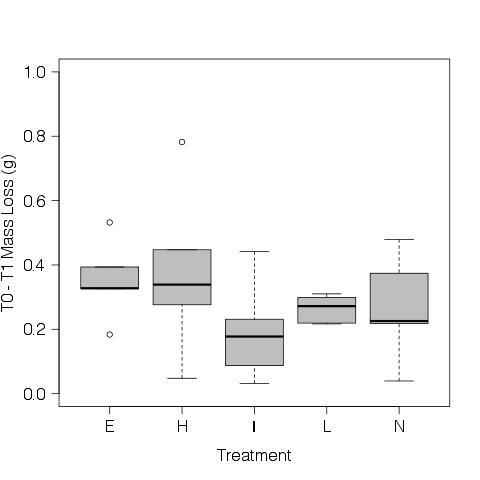
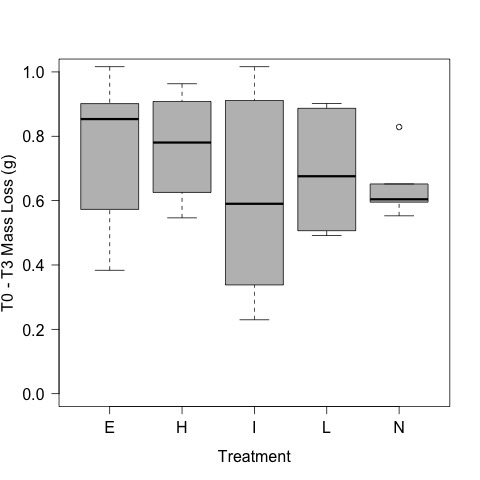
T3 analysis

diff --git a/lab_notebook/analysis/leaf_mass_loss_analysis.md b/lab_notebook/analysis/leaf_mass_loss_analysis.md
@@ -6,6 +6,8 @@
 
 * 22 june 2016 - KF - added T2 to the analysis
 
+* 5 July 2016 - KF - added T3 to the analysis
+
 ## Description
 
 This is the code to calculate the mass loss of the leaf packs in the experiment evaluating the impact of in invasive and native crayfish.
@@ -17,6 +19,7 @@ This is the code to calculate the mass loss of the leaf packs in the experiment 
     leaf.initial <- read.table("./data/initial_leaf_mass.csv", header = T, sep = ",")
     leaf.T1 <- read.table("./data/T1_leaf_mass.csv", header = T, sep = ",")
     leaf.T2 <- read.table("./data/T2_leaf_mass.csv", header = T, sep = ",")
+    leaf.T3 <- read.table("./data/T3_leaf_mass.csv", header = T, sep = ",")
     treat <- read.table("./data/tank_map.csv", header = T, sep = ",")
 
 ### Calculate variables
@@ -40,32 +43,23 @@ This is the code to calculate the mass loss of the leaf packs in the experiment 
     T2AFDM <- T2DM - T2AM
 
 
+#### T3 AFDM
+
+    T3DM <- leaf.T3$CrucLeafDM - leaf.T3$CrucMass
+    T3AM <- leaf.T3$CrucAM - leaf.T3$CrucMass
+    T3AFDM <- T3DM - T3AM
+
 ### Analyze Mass Lost
 
-    leaf.mass <- c(initialAFDM, T1AFDM, T2AFDM)
-    date <- c(as.Date(leaf.initial$Date), as.Date(leaf.T1$Date), as.Date(leaf.T2$Date)) 
-    time.step <- c(rep("T0", 11), rep("T1", 30), rep("T2", 30))
+    leaf.mass <- c(initialAFDM, T1AFDM, T2AFDM, T3AFDM)
+    date <- c(as.Date(leaf.initial$Date), as.Date(leaf.T1$Date), as.Date(leaf.T2$Date), as.Date(leaf.T3$Date)) 
+    time.step <- c(rep("T0", 11), rep("T1", 30), rep("T2", 30), rep("T3", 30))
     days.elapsed <- date - date[1]
-    plot(log(leaf.mass) ~ days.elapsed) 
+    plot((leaf.mass) ~ days.elapsed) 
     k <- lm(log(leaf.mass) ~ days.elapsed)
     abline(k)
     
 ~~~~~
-  Call:
-  lm(formula = log(leaf.mass) ~ days.elapsed)
-
-Residuals:
-  Min       1Q   Median       3Q      Max 
--1.10138 -0.05996  0.01447  0.09553  0.33428 
-
-Coefficients:
-  Estimate Std. Error t value Pr(>|t|)    
-(Intercept)  -0.013507   0.037563  -0.360     0.72    
-days.elapsed -0.033670   0.005535  -6.083 5.83e-08 
-
-Residual standard error: 0.1859 on 69 degrees of freedom
-Multiple R-squared: 0.3491,  Adjusted R-squared: 0.3396 
-F-statistic:    37 on 1 and 69 DF,  p-value: 5.826e-08 
 
 ~~~~
 
@@ -80,7 +74,16 @@ F-statistic:    37 on 1 and 69 DF,  p-value: 5.826e-08
 
     mass.lost.T2 <- mean.initial.AFDM - T2AFDM
     par(las = 1)
-    plot(mass.lost.T2 ~ treat$treatment, ylim = c(0, 1), ylab = "T0 - T1 Mass Loss (g)", xlab = "Treatment", col = 8)
+    plot(mass.lost.T2 ~ treat$treatment, ylim = c(0, 1), ylab = "T0 - T2 Mass Loss (g)", xlab = "Treatment", col = 8)
+    dev.copy(jpeg, "./output/plots/T0_T2_mass_loss.jpg")
+    dev.off()
+
+![Leaf Mass Loss From T0 to T2 by Treatment](../output/plots/T0_T2_mass_loss.jpg)
+
+
+    mass.lost.T3 <- mean.initial.AFDM - T3AFDM
+    par(las = 1)
+    plot(mass.lost.T3 ~ treat$treatment, ylim = c(0, 1), ylab = "T0 - T3 Mass Loss (g)", xlab = "Treatment", col = 8)
     dev.copy(jpeg, "./output/plots/T0_T2_mass_loss.jpg")
     dev.off()
 
